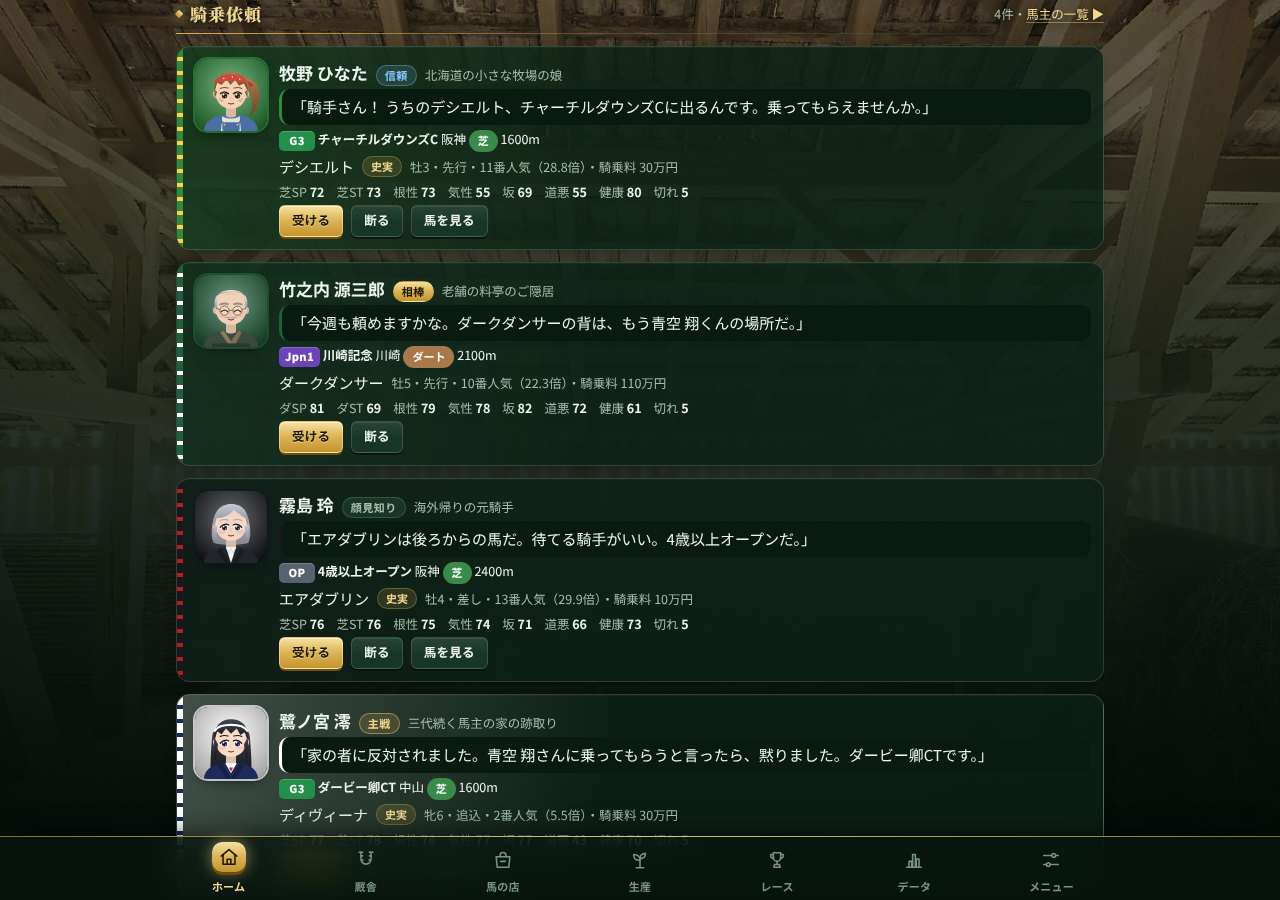
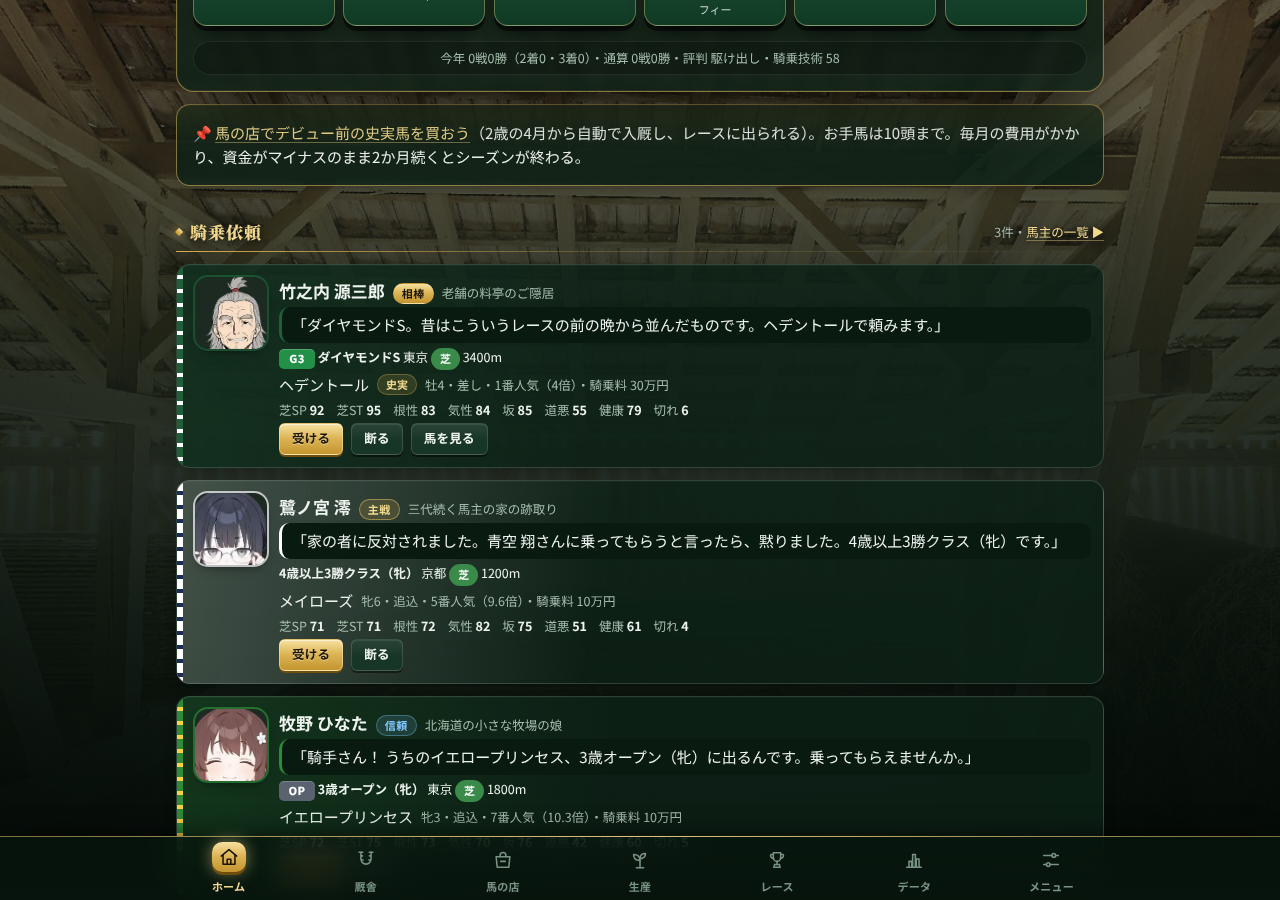
馬主の顔を持ち主の絵で出す（札は顔の切り抜き・大きい画面は胸から上）・年齢を絵に合わせる
Claude-Session: https://claude.ai/code/session_01Tu4tPM33qSaZHK3TJsKy9j

Changed region(s): [[0.125, 0.0, 0.875, 0.9333], [0.6562, 0.3422, 0.7188, 0.3733]]

diff --git a/js/ui/ownersui.js b/js/ui/ownersui.js
@@ -10,7 +10,23 @@
   // ---------- 顔の絵（画像ファイルは使わず SVG で描く。髪型・髪の色・目・服を馬主ごとに） ----------
   // mood：normal・smile・happy・sad
   let fid = 0;
+  // 持ち主が作った顔の絵（assets/owners_<id>.js。HS.ASSETS['owner_<id>_<表情>']）。x・y は顔の中心（絵の幅・高さに対する％）、w は丸い枠に入れる幅（％）
+  const PHOTO_POS = { takenouchi: [48, 14], saginomiya: [52, 23], makino: [50, 19], kirishima: [48, 17], sengoku: [51, 15], hanabusa: [47, 19], takarada: [53, 17] };
+  const PHOTO_MOOD = { normal: 'base', smile: 'smile', happy: 'joy', sad: 'sad' };
+  UI.ownerPhoto = (o, mood) => { const A0 = HS.ASSETS || {}; return A0['owner_' + o.id + '_' + (PHOTO_MOOD[mood] || 'base')] || A0['owner_' + o.id + '_base'] || null; };
   UI.ownerFace = function (o, mood, size) {
+    const src = UI.ownerPhoto(o, mood || 'normal');
+    if (src) {
+      const sz = size || 64;
+      // 大きい絵（ご褒美の場面・一人ずつの画面）は胸から上、小さいときは顔のあたりを丸い枠に切り抜く
+      if (sz >= 160) return `<div class="oface photo big" role="img" aria-label="${e(o.name)}" style="width:${sz}px;height:${Math.round(sz * 1.25)}px;background-image:url('${src}')"></div>`;
+      const [x, y] = PHOTO_POS[o.id] || [50, 12], bw = sz / 0.32, bh = bw * 1.25;
+      return `<div class="oface photo" role="img" aria-label="${e(o.name)}" style="width:${sz}px;height:${sz}px;background-image:url('${src}');background-size:${bw.toFixed(1)}px ${bh.toFixed(1)}px;background-position:${(sz / 2 - x / 100 * bw).toFixed(1)}px ${(sz / 2 - y / 100 * bh).toFixed(1)}px"></div>`;
+    }
+    return UI.ownerFaceSvg(o, mood, size);
+  };
+  // 絵が無いときの顔（SVG で描く）
+  UI.ownerFaceSvg = function (o, mood, size) {
     const f = o.face || {};
     mood = mood || 'normal';
     const id = 'of' + (++fid);

diff --git a/data/owners.js b/data/owners.js
@@ -17,7 +17,7 @@
   const HS = globalThis.HS = globalThis.HS || {}; HS.DATA = HS.DATA || {};
   HS.DATA.owners = [
     {
-      id: 'takenouchi', name: '竹之内 源三郎', kana: 'たけのうち げんざぶろう', age: 74, title: '老舗の料亭のご隠居',
+      id: 'takenouchi', name: '竹之内 源三郎', kana: 'たけのうち げんざぶろう', age: 68, title: '老舗の料亭のご隠居',
       note: '六十年、競馬場に通っている。話が長い。長い距離のレースに目がない。',
       silks: { base: '#1f5f3a', sub: '#ffffff', pattern: 'cross' }, cap: '#ffffff',
       likes: ['long', 'veteran', 'turf'], memory: 'シンザン',
@@ -205,7 +205,7 @@
       },
     },
     {
-      id: 'sengoku', name: '千石 悠斗', kana: 'せんごく ゆうと', age: 29, title: 'アプリで当てた会社の若社長',
+      id: 'sengoku', name: '千石 悠斗', kana: 'せんごく ゆうと', age: 26, title: 'アプリで当てた会社の若社長',
       note: '家計簿のアプリが当たり、馬主になって二年目。せっかちで明るい。話は結論から。短い距離の速い馬が好き。',
       silks: { base: '#00a3e0', sub: '#ffffff', pattern: 'diamonds' }, cap: '#ffffff',
       likes: ['sprint', 'mile', 'young'], memory: 'ニホンピロウイナー',
@@ -299,7 +299,7 @@
       },
     },
     {
-      id: 'takarada', name: '宝田 マリエ', kana: 'たからだ まりえ', age: 47, title: '宝石店の社長',
+      id: 'takarada', name: '宝田 マリエ', kana: 'たからだ まりえ', age: 38, title: '宝石店の社長',
       note: '銀座で宝石店を営む。牝馬しか買わず、自分の馬を「お嬢さん」と呼ぶ。華やかで世話好き。',
       silks: { base: '#d9b23a', sub: '#7a2182', pattern: 'sash' }, cap: '#7a2182',
       likes: ['filly', 'mile', 'turf'], only: 'filly', memory: 'メジロラモーヌ',

diff --git a/css/owners.css b/css/owners.css
@@ -76,3 +76,7 @@ button.own-face:hover .oface { transform: translateY(-2px); transition: transfor
 @media (prefers-reduced-motion: reduce) { .own-talk p, .own-reward, .own-scene-face, .own-offers .own-offer { animation: none; opacity: 1; } }
 .own-card .own-silks { position: absolute; top: 10px; right: 10px; }
 .own-card .own-who { padding-right: 30px; }
+
+/* 持ち主が作った顔の絵（小さいときは顔を切り抜き、大きいときは胸から上） */
+.oface.photo { background-repeat: no-repeat; background-color: #1c2a22; }
+.oface.photo.big { background-size: cover; background-position: 50% 0; border-radius: 14px; }

diff --git a/CHANGELOG.md b/CHANGELOG.md
@@ -1,6 +1,7 @@
 # 更新履歴
 
 ## 次の版
+- 馬主の顔を、持ち主が描いた絵にした（依頼の札は顔を丸く切り抜き、馬主の画面とご褒美の場面は大きな絵。表情は場面で変わる）。ご隠居68歳・若社長26歳・宝石店の社長38歳に。
 - 馬主のキャラクター7人（料亭のご隠居・名門の跡取り・北海道の牧場の娘・元騎手・若社長・和菓子屋の若おかみ・宝石店の社長）から、毎週の騎乗依頼が来るようにした。ホームの「騎乗依頼」で受ける・断るを選び、受けた馬には自分で乗る（おまかせも可）。騎乗料と賞金の一部が入る。依頼を受けて結果を出すと好感度が上がり、顔見知り → 信頼 → 主戦 → 相棒と段階が上がるほど、重賞・G1・グランドフィナーレの強い馬の依頼が来る（断ると少し下がるが、段階は下がらない）。段階ごとのご褒美（祝いの品・勝負服を自分の馬に着せる・引退した馬を牧場に譲ってもらう・好感度がいっぱいで思い出のスペシャルホース）と、年末の「名コンビ賞」。パドックとレースのあとに馬主のひと言。ホームから馬主の一覧と、一人ずつの画面（段階とご褒美・持ち馬・依頼の記録）を開ける。
 - 競馬場の形と坂を実際のコースどおりにした（JRA の10場・地方・海外の多く）：内回り・外回り・直線コース、コーナーの大きさとスパイラルカーブ、高低差（中山のゴール前の急坂・京都の3コーナーの坂など）。坂はレースにも効き、上りは遅く重く（坂に弱い馬ほど）、下りは少し速く楽になる。追い出してからの坂ほど強く効く。出走表のコース図に回りと高低差の線を出す。
 - 殿堂を作り直した：トロフィーを2つ以上手にした自分の馬は、引退したときに殿堂入りする。データの「殿堂」に歴代の殿堂入りしたお手馬の札が並び、押すとその馬の戦績・トロフィー・特殊能力・重賞の勝ち鞍・全成績を振り返れる。引退すれば殿堂入りする馬も出す（冠を手にした馬の一覧はその下に）。
